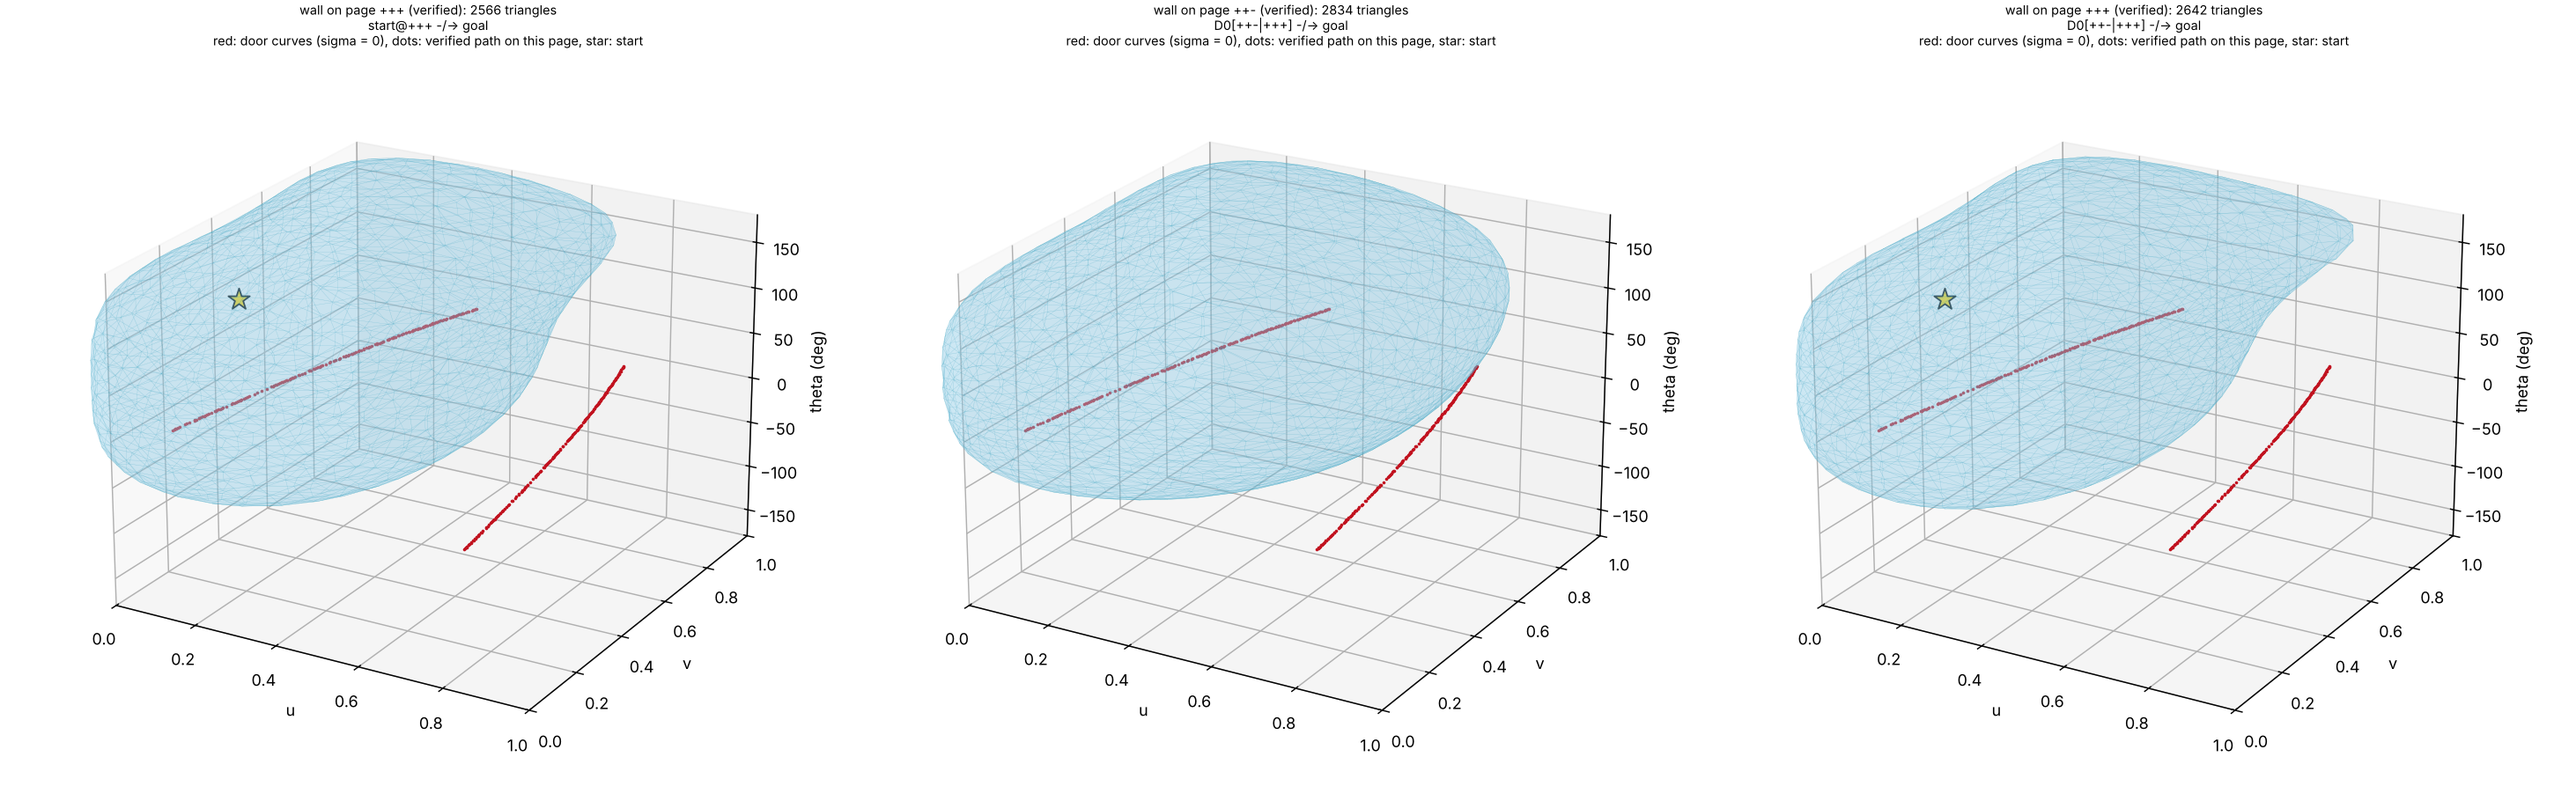
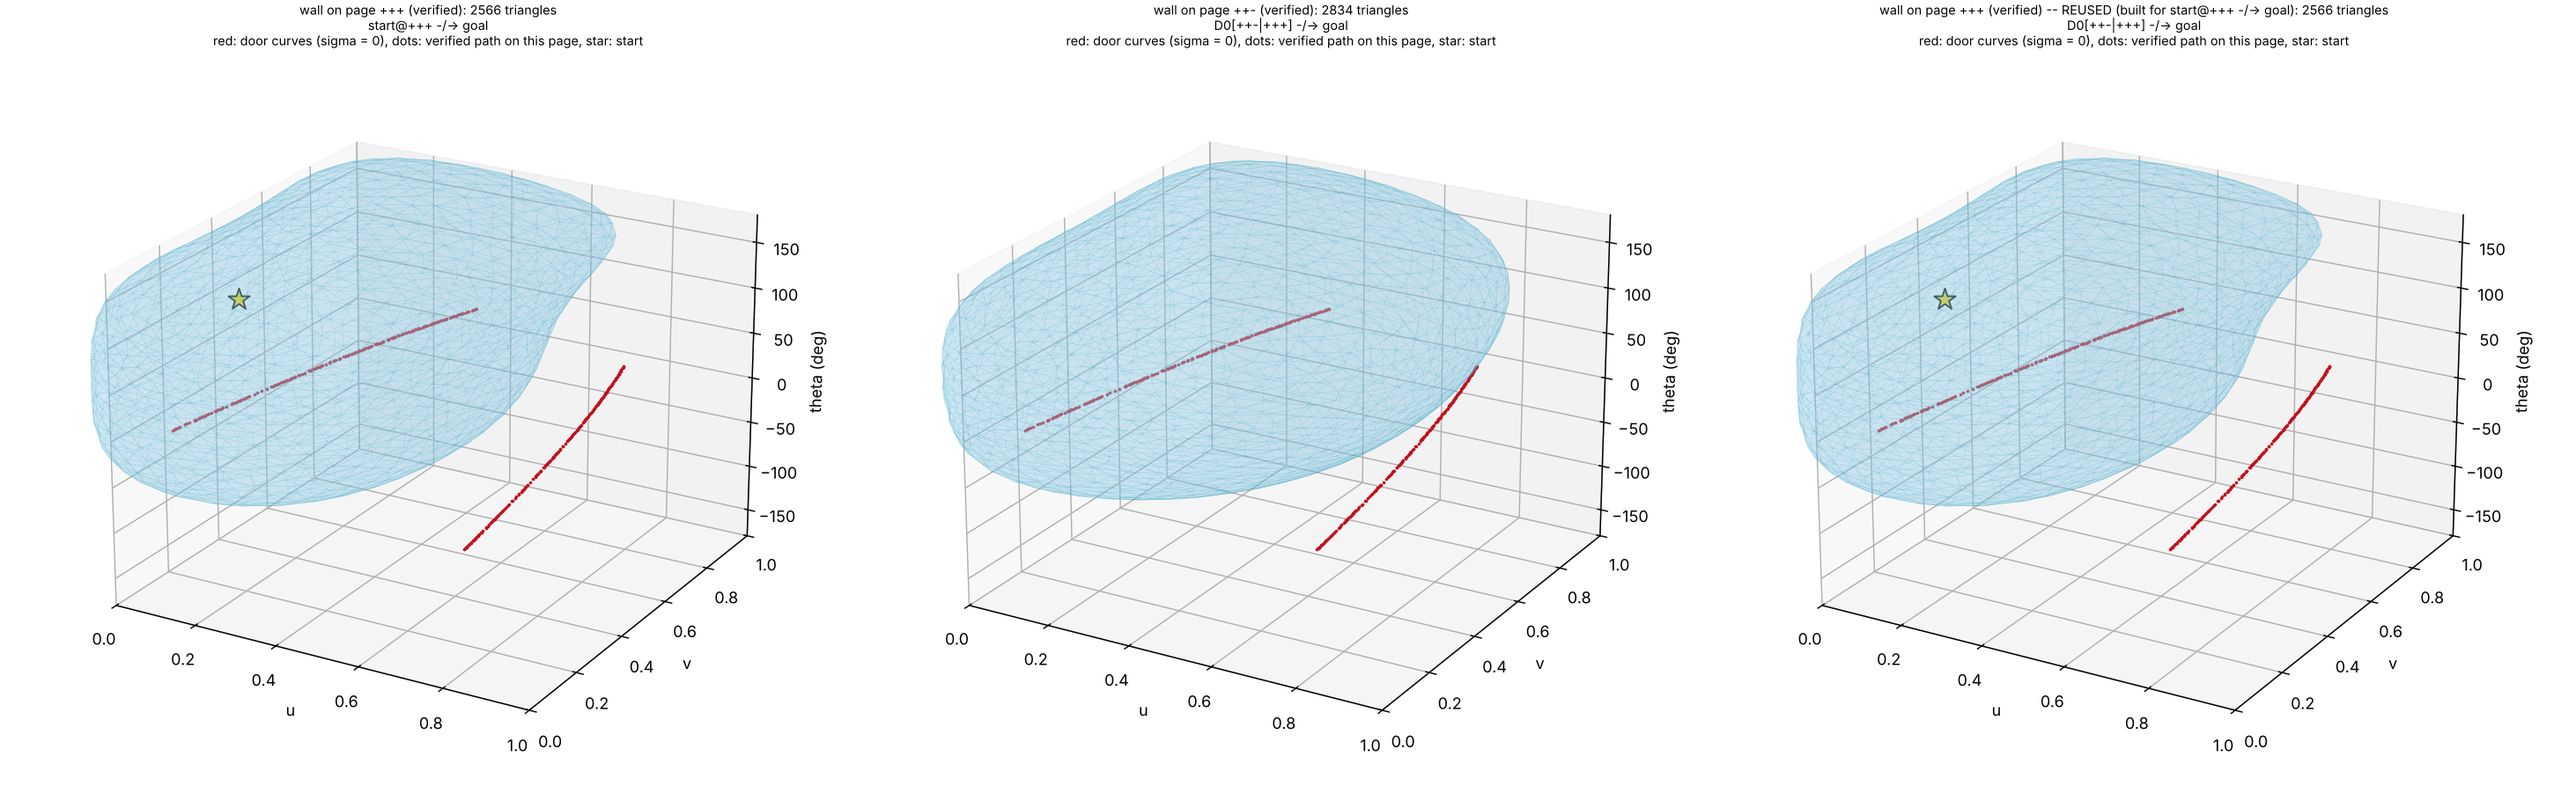
Wall reuse verified on all four cases; distinct/reused wall counts
two-wall: INFEASIBLE with 2 trained walls (one per page) + 1 reuse,
64.2 s (was 116.3 s); exp2-zgap, exp3-new, exp2-none unchanged. The verdict
now reports distinct and reused walls. Docs 10.8 / 6.8, CLAUDE.md, refreshed
two-wall figures. test_recursive and test_chart pass.

Claude-Session: https://claude.ai/code/session_01G8MAXewHc51no21vz9MN8m

diff --git a/src/zzy_rss/proof.py b/src/zzy_rss/proof.py
@@ -75,8 +75,11 @@ class ProofNode:
             out += c["node"].wall_meshes()
         return out
 
-    def count_walls(self) -> int:
-        return len(self.walls) + sum(c["node"].count_walls() for c in self.children)
+    def count_walls(self, distinct: bool = False) -> int:
+        """Wall entries of the tree; distinct=True skips reused ones (a reused
+        wall is the same mesh as one already counted)."""
+        own = sum(1 for w in self.walls if not (distinct and w.get("reused_from")))
+        return own + sum(c["node"].count_walls(distinct) for c in self.children)
 
     def lines(self, indent: str = "") -> list:
         w = ", ".join(f"{x['page']} {x['facets']}" + (" (reused)" if x.get("reused_from") else "")
@@ -314,8 +317,10 @@ def prove_task(cfg: Config, arm: SrsArm, surf: WeldSurface, scene: Scene,
                       walls_built=world.walls_built, walls_reused=world.walls_reused,
                       pages_built=[page_name(s) for s in world.pages])
             if tree.status == PROVEN:
-                return TaskResult(INFEASIBLE, f"proof tree with {tree.count_walls()} verified "
-                                              f"wall(s)", tree=tree, stats=st)
+                n, nd = tree.count_walls(), tree.count_walls(distinct=True)
+                reuse = f" ({nd} distinct, {n - nd} reused)" if n != nd else ""
+                return TaskResult(INFEASIBLE, f"proof tree with {n} verified wall(s){reuse}",
+                                  tree=tree, stats=st)
             return TaskResult(INCONCLUSIVE, tree.reason, tree=tree, stats=st)
     except _budget.BudgetExceeded as e:
         if verbose:

diff --git a/docs/recursive_proof_design.md b/docs/recursive_proof_design.md
@@ -483,3 +483,31 @@ exp3-new FEASIBLE(72.3 s)、two-wall INFEASIBLE 三面墙(111.2 s)。
 
 **于是证明里每一个门的决定都是证书**:找门 = 方法 2(σ + L,完备),卸门 = 碰撞证书或限位证书。剩下的非证书部分只在
 可行一侧(见证路径逐构型验证,段间未扫掠认证)与模型本身(胶囊碰撞几何)。
+
+### 10.8 墙的复用(2026-11-16)
+
+**问题**:每个命题 `A ↛ B` 都在相关页上**新训练**一面墙。两页实验里 `+++` 被问了两次:
+check 1(起点 ↛ 终点)训练了墙 1(2566 面,内含门 D0、终点在外);check 3(D0 ↛ 终点)又在 `+++` 训练了墙 3(2642 面,28.6 s)。
+可墙 1 **本来就**把 D0 圈在里面、把终点排除在外 —— 它已经证明了"D0 在 `+++` 上到不了终点"。
+
+**做法**(`check.reuse_wall`):每面**闭合且全部面通过检查 (i)(ii)** 的墙存入 `World.wall_cache[页]`(不管它当时的 `_verify` 是否通过)。
+新命题在训练之前,先对该页缓存的每面墙跑**同一个** `_verify`:A 在内、B 在外、墙内其余活门列为分裂点;第一面通过的就用,
+否则照旧训练新墙。开关 `Page3Params.reuse_walls`(默认开)。
+
+**为什么可靠**:证书是一组彼此独立的存在性陈述("存在闭合、全在 C_obs、A 在内 B 在外的墙"),不要求每个命题各有一面墙。
+面检查 (i)(ii) 只取决于页与该页的活门,二者在一次证明中不变;命题相关的部分全在 `_verify` 里,复用与新墙走同一套。
+不能复用时退回原来的训练 ⇒ **只可能省功,不可能变坏**。
+
+**实测**(依次运行):
+
+| 案例 | 判定 | 训练的墙 | 复用 | 时间 |
+|---|---|---|---|---|
+| two-wall | **INFEASIBLE** | **2**(`+++` 2566/2566、`++-` 2834/2834) | 1(`+++` 上的 D0 ↛ 终点) | **64.2 s**(原 116.3 s) |
+| exp2-zgap | INFEASIBLE | 1(2006/2006) | 0 | 7.8 s |
+| exp3-new(`--also-prove`) | FEASIBLE | 1(2520/2520,仅示意) | 0 | 72.0 s |
+| exp2-none | FEASIBLE | 0 | 0 | 3.1 s |
+
+两页实验现在**每页一面墙**(旧泛洪四面)。证书与证明树把复用的墙标为 `reused_from`,判定写成
+"3 verified wall(s) (2 distinct, 1 reused)";八页图里复用的墙画成虚线。
+(页采样这一轮比上一轮快 ~25%,是机器负载差异;墙的部分 65.4 s → 28.7 s 是复用省下的。)
+测试:`tests/test_recursive.py::test_wall_reuse`(同一命题第二次 → 复用同一网格、不训练;关掉开关 → 重新训练)。

diff --git a/CLAUDE.md b/CLAUDE.md
@@ -29,6 +29,8 @@
 > (§10.7,`chart.joint_rates` / `limit_certified`,逐页)。旧的证据卸载(`certify_curve`)默认关
 > (`Page3Params.discharge_evidence=False`)。旧泛洪流水线(`flood*.py`、`run_3d.py`、`run_three.py` 等)保留为 **legacy**,
 > 启动时打印 `[legacy]`,闭式找门只作测试里的独立答案。
+> **墙的复用(§10.8,2026-11-16)**:新命题先试该页已验证的墙(同一个 `_verify`),不行才训练 ⇒
+> 两页实验 **每页一面墙**(2 面训练 + 1 次复用),**116.3 s → 64.2 s**,判定不变;`Page3Params.reuse_walls`。
 > 其余找门方法的代码已于 2026-11-15 **全部删除**(不再需要;结论留在设计文档里):
 > §10.4 方法 4(Krawczyk,认证半径 ~ σ_min²、不实用)、§10.5 方法 5(姿态变量代数路线,
 > 逐切片与闭式解一致但只适用 S-R-S、未接入证明)、§10.6 方法 6(关节变量代数路线,迹检验未通过)。

diff --git a/docs/code_changes_recursive.md b/docs/code_changes_recursive.md
@@ -167,3 +167,15 @@
 | `CLAUDE.md` | 主方法说明;命令区分"主方法 / legacy" |
 
 结果见设计文档 §10.7。
+
+### 6.8 墙的复用(2026-11-16)
+
+| 文件 | 改动 |
+|---|---|
+| `src/zzy_rss/check.py` | `World.wall_cache`、`walls_reused`;`reuse_wall()`(缓存的墙走同一个 `_verify`);`check()` 先复用后训练;`page_wall` 把闭合且面全过的墙存入缓存 |
+| `src/zzy_rss/params.py` | `Page3Params.reuse_walls = True` |
+| `src/zzy_rss/proof.py` | 证明树/证书记录 `reused_from`;`count_walls(distinct=True)`;统计 `walls_reused`;判定写明 distinct/reused |
+| `scripts/fig_eight_pages.py` | 复用的墙画虚线、图例与 3-D 标题注明 |
+| `tests/test_recursive.py` | `test_wall_reuse` |
+
+结果见设计文档 §10.8。
